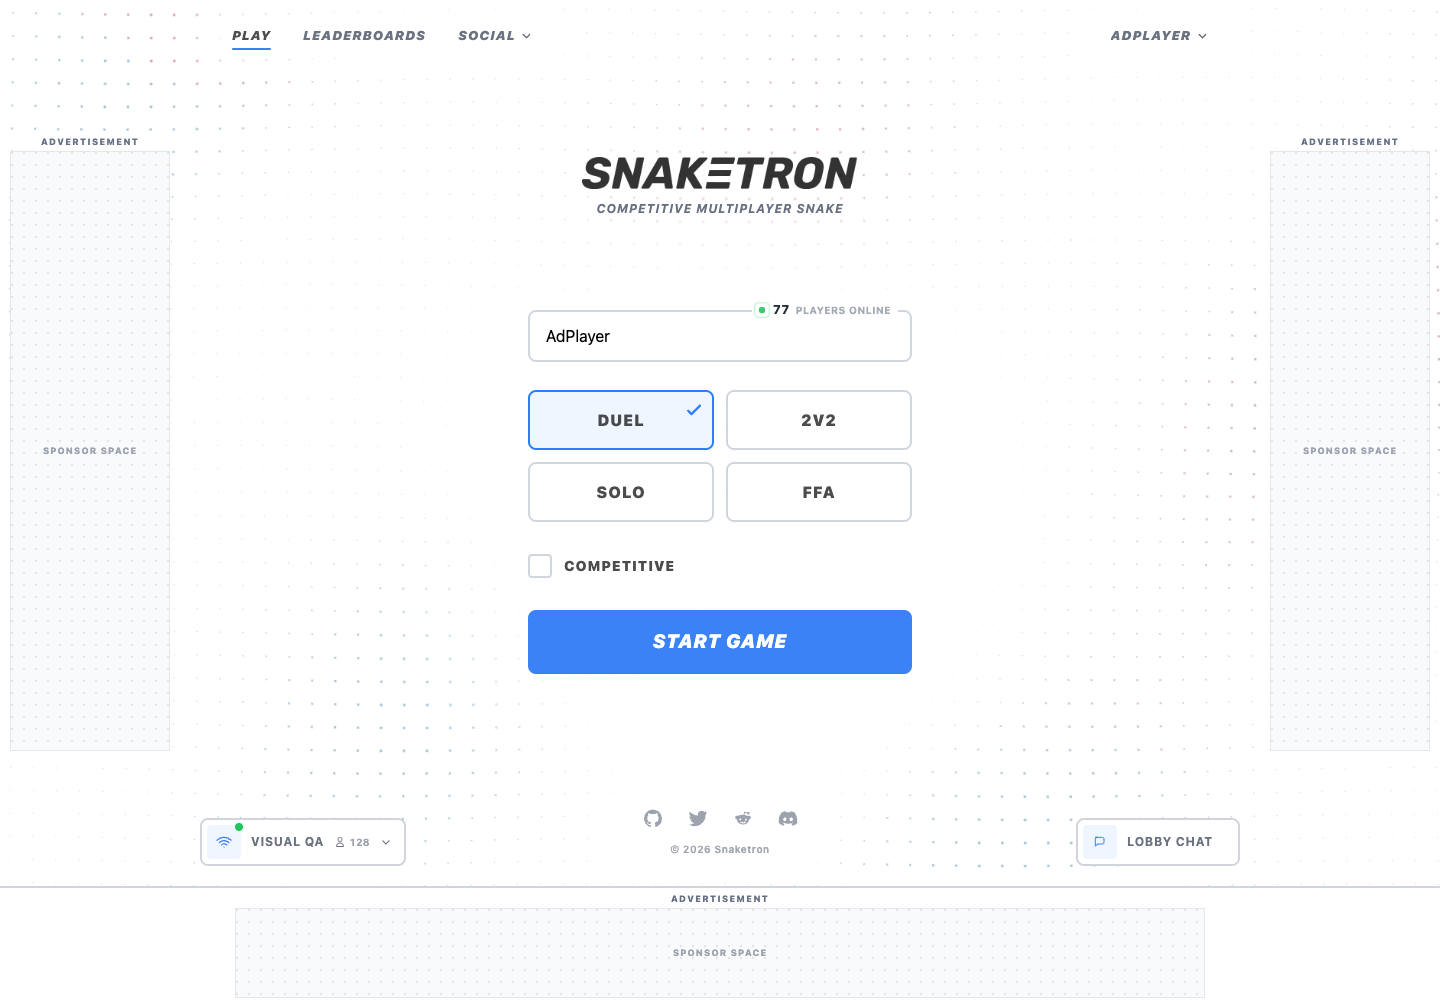
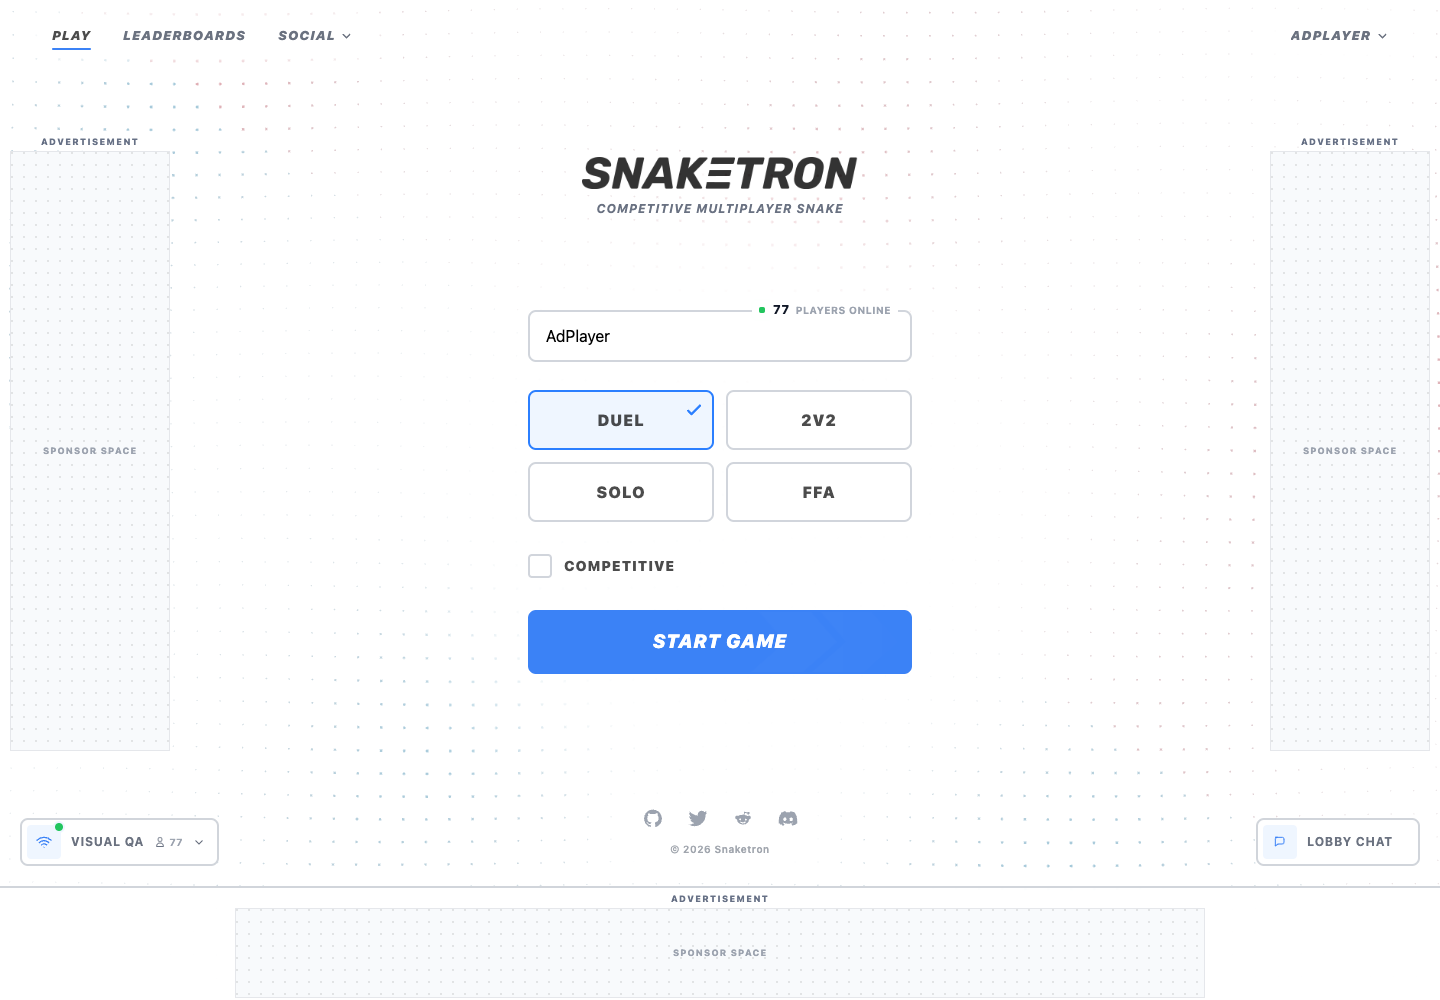
Float desktop ad rails outside page layout

diff --git a/client/web/index.css b/client/web/index.css
@@ -96,19 +96,16 @@ kbd {
   --game-boost: #f8c84a;
   --ad-bottom-reserve: 0px;
   --ad-bottom-total-reserve: calc(var(--ad-bottom-reserve) + var(--safe-area-inset-bottom));
-  --ad-side-reserve: 0px;
 }
 
 /* Every route starts with safe-area-only spacing. The durable banner allowlist
-   opts into the live provider reserves as one shared layout contract. */
+   opts into the live bottom-banner reserve as one shared layout contract. */
 .app-route-layout {
   --ad-route-bottom-reserve: var(--safe-area-inset-bottom);
-  --ad-route-side-reserve: 0px;
 }
 
 .app-route-layout--banner-safe {
   --ad-route-bottom-reserve: var(--ad-bottom-total-reserve);
-  --ad-route-side-reserve: var(--ad-side-reserve);
 }
 
 /* Advertising -------------------------------------------------------------
@@ -150,6 +147,8 @@ kbd {
 
 .ad-banner-slot--left-rail,
 .ad-banner-slot--right-rail {
+  /* Rails float over the viewport edge. They intentionally reserve no page
+     width; only the bottom placement participates in route layout. */
   position: fixed;
   top: calc((100dvh - var(--ad-bottom-total-reserve)) / 2);
   z-index: 25;
@@ -3525,7 +3524,7 @@ body {
   height: 72px;
   align-items: center;
   justify-content: space-between;
-  padding: 0 calc(32px + var(--ad-route-side-reserve));
+  padding: 0 32px;
 }
 
 .home-top-nav {
@@ -4457,8 +4456,7 @@ body {
   flex: 1;
   align-items: center;
   justify-content: center;
-  padding: 84px calc(20px + var(--ad-route-side-reserve))
-    calc(76px + var(--ad-route-bottom-reserve));
+  padding: 84px 20px calc(76px + var(--ad-route-bottom-reserve));
 }
 
 .account-profile-details {
@@ -4533,8 +4531,7 @@ body {
   box-sizing: border-box;
   width: 100%;
   min-height: 100svh;
-  padding: 128px max(clamp(24px, 5vw, 96px), var(--ad-route-side-reserve))
-    calc(120px + var(--ad-route-bottom-reserve));
+  padding: 128px clamp(24px, 5vw, 96px) calc(120px + var(--ad-route-bottom-reserve));
 }
 
 .leaderboard-content {
@@ -4951,7 +4948,7 @@ a.home-social-icon:hover {
 .home-utility-dock {
   position: fixed;
   bottom: calc(20px + var(--ad-route-bottom-reserve));
-  left: calc(20px + env(safe-area-inset-left, 0px) + var(--ad-route-side-reserve));
+  left: calc(20px + env(safe-area-inset-left, 0px));
   z-index: 40;
   display: flex;
   align-items: center;
@@ -5246,7 +5243,7 @@ a.home-social-icon:hover {
 }
 
 .home-lobby-chat {
-  right: calc(20px + env(safe-area-inset-right, 0px) + var(--ad-route-side-reserve));
+  right: calc(20px + env(safe-area-inset-right, 0px));
   bottom: calc(20px + var(--ad-route-bottom-reserve));
 }
 

diff --git a/client/web/components/AdBannerLayout.tsx b/client/web/components/AdBannerLayout.tsx
@@ -2,6 +2,7 @@ import React, { useCallback, useEffect, useMemo, useState } from 'react';
 import { useAds } from '../contexts/AdsContext';
 import { bannerRetryDelayMs } from '../services/ads/bannerLifecycle';
 import {
+  bottomBannerReservePx,
   planBannerPlacements,
   type BannerPlacement,
 } from '../services/ads/bannerPlan';
@@ -197,29 +198,18 @@ export const AdBannerLayout: React.FC<AdBannerLayoutProps> = ({
   const visiblePlacementKey = visiblePlacements.map(placementSignature).join('|');
 
   useEffect(() => {
-    const bottom = visiblePlacements.find(({ slot }) => slot === 'bottom');
-    const rails = visiblePlacements.filter(({ slot }) => slot !== 'bottom');
+    const bottomReserve = bottomBannerReservePx(visiblePlacements);
     const root = document.documentElement;
-    if (bottom) {
+    if (bottomReserve > 0) {
       root.dataset.adBottomVisible = 'true';
-      root.style.setProperty('--ad-bottom-reserve', `${bottom.height + 24}px`);
+      root.style.setProperty('--ad-bottom-reserve', `${bottomReserve}px`);
     } else {
       delete root.dataset.adBottomVisible;
       root.style.setProperty('--ad-bottom-reserve', '0px');
-    }
-    if (rails.length > 0) {
-      const railWidth = Math.max(...rails.map(({ width }) => width));
-      root.dataset.adSideVisible = 'true';
-      root.style.setProperty('--ad-side-reserve', `${railWidth + 20}px`);
-    } else {
-      delete root.dataset.adSideVisible;
-      root.style.setProperty('--ad-side-reserve', '0px');
     }
     return () => {
       delete root.dataset.adBottomVisible;
-      delete root.dataset.adSideVisible;
       root.style.setProperty('--ad-bottom-reserve', '0px');
-      root.style.setProperty('--ad-side-reserve', '0px');
     };
   }, [visiblePlacementKey]);
 

diff --git a/client/web/tests/unit/ads.test.ts b/client/web/tests/unit/ads.test.ts
@@ -4,6 +4,7 @@ import { AdBreakResolutionOutbox } from '../../services/ads/adBreakOutbox.ts';
 import { resolveAdAttemptBeforeDeadline } from '../../services/ads/adBreakCoordinator.ts';
 import { bannerRetryDelayMs } from '../../services/ads/bannerLifecycle.ts';
 import {
+  bottomBannerReservePx,
   isDurableBannerRoute,
   planBannerPlacements,
 } from '../../services/ads/bannerPlan.ts';
@@ -217,6 +218,19 @@ test('banner planning is mobile-bottom-only and desktop-provider-aware', () => {
     isScreenEligible: true,
     isGameplayActive: false,
   }).map(({ slot }) => slot), ['bottom']);
+});
+
+test('only the bottom banner reserves route layout space', () => {
+  assert.equal(bottomBannerReservePx([
+    { slot: 'left-rail', width: 160, height: 600 },
+    { slot: 'right-rail', width: 160, height: 600 },
+  ]), 0, 'floating desktop rails do not narrow or offset page content');
+
+  assert.equal(bottomBannerReservePx([
+    { slot: 'bottom', width: 970, height: 90 },
+    { slot: 'left-rail', width: 160, height: 600 },
+    { slot: 'right-rail', width: 160, height: 600 },
+  ]), 114, 'the bottom banner and its chrome reserve a row');
 });
 
 test('providers can prohibit banners during gameplay', () => {

diff --git a/client/web/services/ads/bannerPlan.ts b/client/web/services/ads/bannerPlan.ts
@@ -19,6 +19,8 @@ export interface BannerPlanInput {
   isGameplayActive: boolean;
 }
 
+const BOTTOM_BANNER_CHROME_HEIGHT = 24;
+
 const DURABLE_BANNER_ROUTES = new Set(['/', '/leaderboards']);
 
 /**
@@ -29,6 +31,15 @@ export const isDurableBannerRoute = (pathname: string): boolean => {
   const trimmed = pathname.trim();
   const normalized = trimmed.length > 1 ? trimmed.replace(/\/+$/, '') : trimmed;
   return DURABLE_BANNER_ROUTES.has(normalized || '/');
+};
+
+/**
+ * Only the bottom placement participates in document layout. Desktop rails
+ * are fixed viewport overlays and must never narrow or offset page content.
+ */
+export const bottomBannerReservePx = (placements: BannerPlacement[]): number => {
+  const bottom = placements.find(({ slot }) => slot === 'bottom');
+  return bottom ? bottom.height + BOTTOM_BANNER_CHROME_HEIGHT : 0;
 };
 
 const bottomSize = (viewportWidth: number): { width: number; height: number } => {

diff --git a/docs/advertising-design.md b/docs/advertising-design.md
@@ -90,9 +90,11 @@ The generic layout supports one bottom placement on mobile and desktop plus two
 desktop rails when the provider permits three concurrent banners. Provider
 capabilities may reduce the selected set; for example, the CrazyGames adapter
 caps itself at two concurrent banners. These captures use neutral sponsor-space
-placeholders rather than simulated ad creative.
+placeholders rather than simulated ad creative. The desktop rails are fixed
+viewport overlays: they never create columns, narrow the app, or move its
+controls. Only the bottom placement reserves layout space.
 
-### Desktop: bottom bar and both rails
+### Desktop: reserved bottom bar and floating rails
 
 ![Desktop banner layout](screenshots/ads/banner-layout-desktop.png)
 
